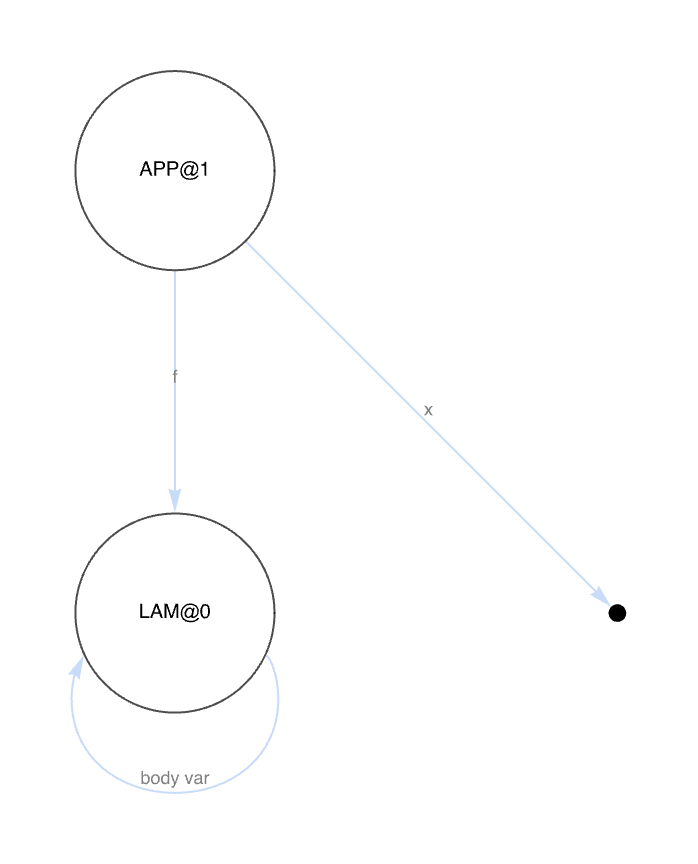
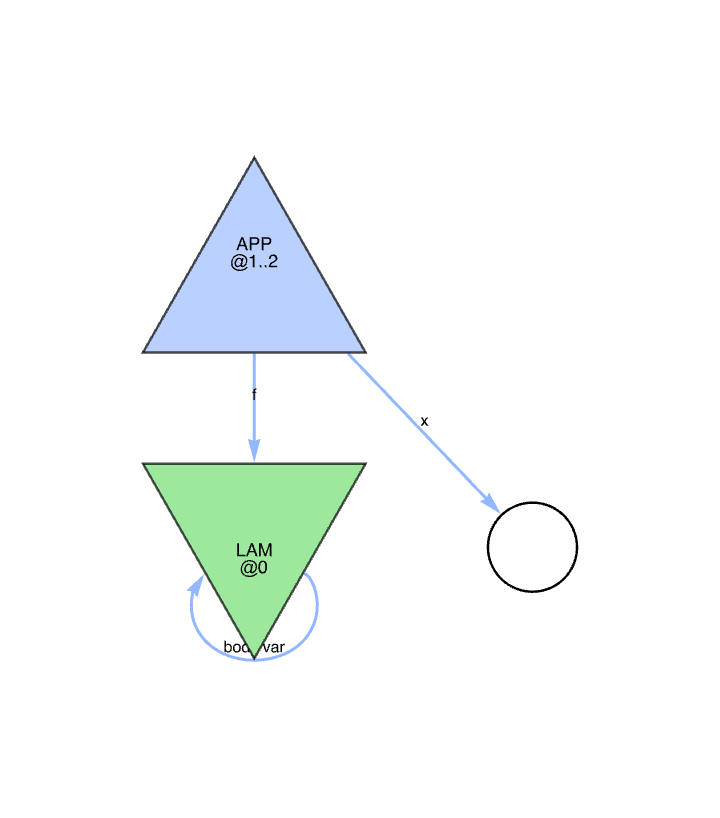
wl: visualization split, theme-aware colors, transparent PNG, fixes
The pink-screen failure was a real WL error: my agent VertexShape
used Dashing[{Small, Small}] for SUB-tagged outlines, but Small is
not a numeric Dashing arg.  WL silently rendered the graph onto a
peach error-overlay, which we mistook for a default Background.
Replaced with the proper Dashed directive.

A separate context-shadowing bug: in wolframscript, Needs["pkg`"]
loaded too late so user references resolved to Global`Sym before the
package context took effect.  Switching the test runner and the
Examples runner to Get["THVMLink`"] avoids the shadowing.

Style upgrades:
- Visualization.wl: extracted the 200-ish lines of THeapGraph and
  per-tag styling into a dedicated kernel sibling file.  THVMLink.wl
  now Get's both Visualization.wl and Format.wl after declaring
  public symbols.
- Per-tag agent fills using LightDarkSwitched[Lighter[StandardX,...],
  Darker[StandardX,...]]: green for LAM, blue for APP, orange for SUP,
  purple for DUP.  ERA stays as a foreground-stroked Circle.
- Multi-line vertex labels: "TAG\n@<base>..<base+arity-1>" so APP@1..2
  shows the full heap span, LAM@0 shows the single cell.
- Real triangles via Triangle[] (not trapezoids): apex up for APP/SUP,
  apex down for LAM/DUP.
- Single-vertex self-loop drawn manually via EdgeShapeFunction so the
  identity lambda's loop is visible.
- Background set to None on the Export call so the PNG is transparent.
- All colors theme-aware (LightDarkSwitched + Standard*) so graphs
[…]

diff --git a/wl/GUIDE.md b/wl/GUIDE.md
@@ -51,6 +51,25 @@ Same spirit as the rules above: ASCII-only in source files unless the
 character carries meaning (mathematical typesetting in a comment is
 fine when relevant).
 
+### Dark mode + Standard colors
+
+Always design WL output for both light and dark Wolfram themes from
+the start.
+
+- Use **Standard color names** (`StandardBlue`, `StandardRed`,
+  `StandardGreen`, `StandardOrange`, `StandardYellow`,
+  `StandardPurple`, `StandardGray`) instead of `RGBColor[...]` or
+  `Darker[Blue, 0.4]`. They read correctly on light and dark
+  backgrounds.
+- Use `LightDarkSwitched[lightValue, darkValue]` when a value
+  (color, opacity, thickness) genuinely needs to differ between
+  modes. Avoid hard-coded `White`/`Black` for `Background`,
+  `FaceForm`, etc.; either let the theme drive it, or wrap in
+  `LightDarkSwitched`.
+- Don't unconditionally pin `Background -> White` on a Graph or
+  Graphics. If a static PNG export needs an explicit background,
+  set it on the Export call, not on the Graph.
+
 ## Indentation and spacing
 
 - 4-space indentation. Never 2.
